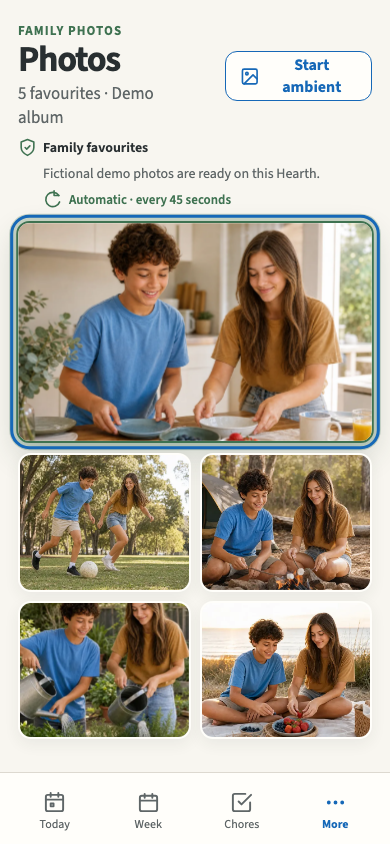
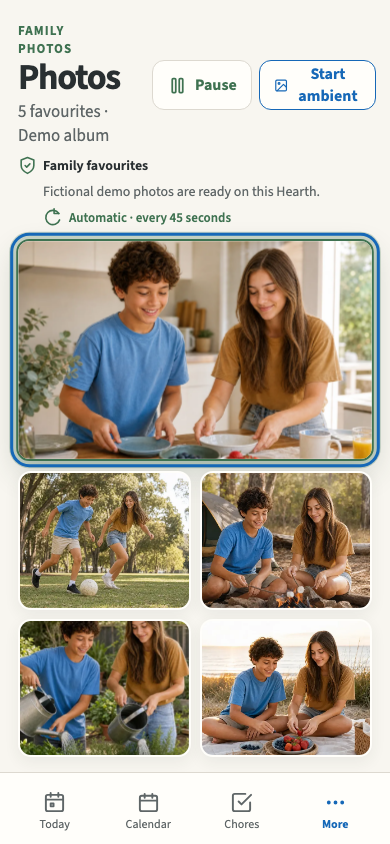
Make photo collages rotate automatically

diff --git a/hearth/apps/web/src/screens/PhotosScreen.tsx b/hearth/apps/web/src/screens/PhotosScreen.tsx
@@ -35,6 +35,8 @@ export function PhotosScreen({
   const [selectedId, setSelectedId] = useState<string | null>(null);
   const [manualSelectionRevision, setManualSelectionRevision] = useState(0);
   const [ambient, setAmbient] = useState(false);
+  const [rotationPaused, setRotationPaused] = useState(false);
+  const [pageVisible, setPageVisible] = useState(() => document.visibilityState === 'visible');
   const [prefersReducedMotion, setPrefersReducedMotion] = useState(
     () => window.matchMedia('(prefers-reduced-motion: reduce)').matches,
   );
@@ -69,7 +71,20 @@ export function PhotosScreen({
   }, []);
 
   useEffect(() => {
-    if (prefersReducedMotion || gallery === undefined || gallery.photos.length < 2) return;
+    const onVisibilityChange = () => setPageVisible(document.visibilityState === 'visible');
+    document.addEventListener('visibilitychange', onVisibilityChange);
+    return () => document.removeEventListener('visibilitychange', onVisibilityChange);
+  }, []);
+
+  useEffect(() => {
+    if (
+      prefersReducedMotion ||
+      rotationPaused ||
+      !pageVisible ||
+      gallery === undefined ||
+      gallery.photos.length < 2
+    )
+      return;
     const timer = window.setTimeout(() => {
       setSelectedId((current) =>
         nextPhotoId(
@@ -79,7 +94,15 @@ export function PhotosScreen({
       );
     }, PHOTO_COLLAGE_ROTATION_MS);
     return () => window.clearTimeout(timer);
-  }, [ambient, gallery, manualSelectionRevision, prefersReducedMotion, selectedId]);
+  }, [
+    ambient,
+    gallery,
+    manualSelectionRevision,
+    pageVisible,
+    prefersReducedMotion,
+    rotationPaused,
+    selectedId,
+  ]);
 
   useEffect(() => {
     if (!ambient) return;
@@ -145,17 +168,43 @@ export function PhotosScreen({
         title="Photos"
         meta={`${gallery.collection.photoCount} favourites · ${gallery.collection.source.label}`}
         actions={
-          <button
-            className="photos-ambient-action focusable"
-            data-focus-down={`photos-thumb-${selected?.id ?? gallery.photos[0]?.id}`}
-            data-focus-id="photos-start-ambient"
-            data-focus-left="nav-photos"
-            onClick={() => setAmbient(true)}
-            type="button"
-          >
-            <Icon name="image" />
-            Start ambient
-          </button>
+          <div className="photos-header-actions">
+            {!prefersReducedMotion && gallery.photos.length > 1 ? (
+              <button
+                aria-label={
+                  rotationPaused
+                    ? 'Resume automatic photo rotation'
+                    : 'Pause automatic photo rotation'
+                }
+                aria-pressed={rotationPaused}
+                className="photos-rotation-action focusable"
+                data-focus-down={`photos-thumb-${selected?.id ?? gallery.photos[0]?.id}`}
+                data-focus-id="photos-toggle-rotation"
+                data-focus-left="nav-photos"
+                data-focus-right="photos-start-ambient"
+                onClick={() => setRotationPaused((paused) => !paused)}
+                type="button"
+              >
+                <Icon name={rotationPaused ? 'play' : 'pause'} />
+                {rotationPaused ? 'Resume' : 'Pause'}
+              </button>
+            ) : null}
+            <button
+              className="photos-ambient-action focusable"
+              data-focus-down={`photos-thumb-${selected?.id ?? gallery.photos[0]?.id}`}
+              data-focus-id="photos-start-ambient"
+              data-focus-left={
+                !prefersReducedMotion && gallery.photos.length > 1
+                  ? 'photos-toggle-rotation'
+                  : 'nav-photos'
+              }
+              onClick={() => setAmbient(true)}
+              type="button"
+            >
+              <Icon name="image" />
+              Start ambient
+            </button>
+          </div>
         }
       />
       {!online ? (
@@ -174,7 +223,7 @@ export function PhotosScreen({
         {!prefersReducedMotion && gallery.photos.length > 1 ? (
           <span className="photos-rotation-note">
             <Icon name="refresh" />
-            Automatic · every 45 seconds
+            {rotationPaused ? 'Automatic rotation paused' : 'Automatic · every 45 seconds'}
           </span>
         ) : null}
       </div>

diff --git a/hearth/tests/e2e/photos.spec.ts b/hearth/tests/e2e/photos.spec.ts
@@ -84,6 +84,7 @@ test('the collage uses each photo once, fits both orientations and rotates calml
   await expect(page).toHaveTitle(/Hearth/);
   await expect(page.getByRole('heading', { name: 'Photos' })).toBeVisible();
   await expect(page.getByText('Automatic · every 45 seconds')).toBeVisible();
+  await expect(page.getByRole('button', { name: 'Pause automatic photo rotation' })).toBeVisible();
 
   const tiles = page.locator('.photo-collage__tile');
   await expect(tiles).toHaveCount(5);
@@ -171,6 +172,16 @@ test('the collage uses each photo once, fits both orientations and rotates calml
     'data-photo-id',
     'photo_park_football',
   );
+  await page.getByRole('button', { name: 'Pause automatic photo rotation' }).click();
+  await expect(page.getByText('Automatic rotation paused')).toBeVisible();
+  const pausedPhotoId = await page.locator('.photos-hero').getAttribute('data-photo-id');
+  await page.waitForTimeout(900);
+  await expect(page.locator('.photos-hero')).toHaveAttribute('data-photo-id', pausedPhotoId!);
+  await page.getByRole('button', { name: 'Resume automatic photo rotation' }).click();
+  await expect(page.getByText('Automatic · every 45 seconds')).toBeVisible();
+  await expect(page.locator('.photos-hero')).not.toHaveAttribute('data-photo-id', pausedPhotoId!, {
+    timeout: 2_000,
+  });
   await page.locator('[data-photo-id="photo_family_breakfast"]').click();
   await page.waitForTimeout(350);
   await expect(page.locator('.photos-hero')).toHaveAttribute(

diff --git a/hearth/apps/web/src/styles/app.css b/hearth/apps/web/src/styles/app.css
@@ -32,6 +32,12 @@
 .photos-screen .screen-header {
   margin-bottom: 8px;
 }
+.photos-header-actions {
+  display: flex;
+  align-items: center;
+  gap: 12px;
+}
+.photos-rotation-action,
 .photos-ambient-action {
   min-height: 72px;
   padding: 0 28px;
@@ -46,6 +52,11 @@
   font-weight: 690;
   cursor: pointer;
 }
+.photos-rotation-action {
+  border-color: var(--hairline);
+  color: var(--eucalyptus);
+}
+.photos-rotation-action svg,
 .photos-ambient-action svg {
   width: 29px;
   height: 29px;
@@ -271,6 +282,7 @@
 }
 
 @media (max-width: 1500px) and (min-width: 901px) {
+  .photos-rotation-action,
   .photos-ambient-action {
     min-height: 62px;
     padding: 0 22px;
@@ -306,6 +318,10 @@
   .photos-screen .screen-header__actions {
     display: block;
   }
+  .photos-header-actions {
+    gap: 7px;
+  }
+  .photos-rotation-action,
   .photos-ambient-action {
     min-height: 50px;
     padding: 0 14px;
@@ -314,6 +330,7 @@
     gap: 7px;
     font-size: 16px;
   }
+  .photos-rotation-action svg,
   .photos-ambient-action svg {
     width: 21px;
     height: 21px;

diff --git a/hearth/apps/web/src/components/Icon.tsx b/hearth/apps/web/src/components/Icon.tsx
@@ -19,6 +19,8 @@ export type IconName =
   | 'mic'
   | 'moon'
   | 'more'
+  | 'pause'
+  | 'play'
   | 'plus'
   | 'power'
   | 'refresh'
@@ -117,6 +119,13 @@ const paths: Record<IconName, React.ReactNode> = {
       <circle cx="19" cy="12" r="1" />
     </>
   ),
+  pause: (
+    <>
+      <rect x="6" y="4" width="4" height="16" rx="1" />
+      <rect x="14" y="4" width="4" height="16" rx="1" />
+    </>
+  ),
+  play: <path d="m7 4 13 8-13 8V4Z" />,
   plus: <path d="M12 5v14M5 12h14" />,
   power: (
     <>

diff --git a/docs/hearth-v2/UX_SPEC.md b/docs/hearth-v2/UX_SPEC.md
@@ -126,8 +126,9 @@ the phone More hub.
   through, rather than squeezing the five-image television composition into shallow ribbons.
 - The collage advances its selected photo, feature region and visible occupants every 45 seconds
   with a restrained image settle while choosing geometry from the featured photo's orientation.
-  Manual D-pad/touch selection restarts that interval, and reduced-motion mode leaves the collage
-  static.
+  Manual D-pad/touch selection restarts that interval. A clearly labelled Pause/Resume control is
+  reachable by remote and touch, hidden tabs do not consume rotations, and reduced-motion mode
+  leaves the collage static.
 - Optional minimal overlay: time, next event and discreet notification badge.
 - Immediate remote exit.
 - Photo source/error state should never reveal filesystem paths or technical details to the household.

diff --git a/docs/hearth-v2/ACCEPTANCE.md b/docs/hearth-v2/ACCEPTANCE.md
@@ -180,6 +180,8 @@ live-system commissioning tasks requiring owner approval.
 ### Photos and ambient mode
 
 - Approved photos rotate without visible distortion, incorrect orientation or filesystem exposure.
+- Automatic collage rotation can be paused and resumed using only the remote or touch, does not
+  advance while the document is hidden, and remains still when reduced motion is requested.
 - The normal gallery shows each visible photo once, fills its available screen region and chooses a
   stable composition from the featured photo's orientation. In a mixed five-photo set each automatic
   advance visibly changes the feature: a featured portrait becomes a useful tall anchor and a
